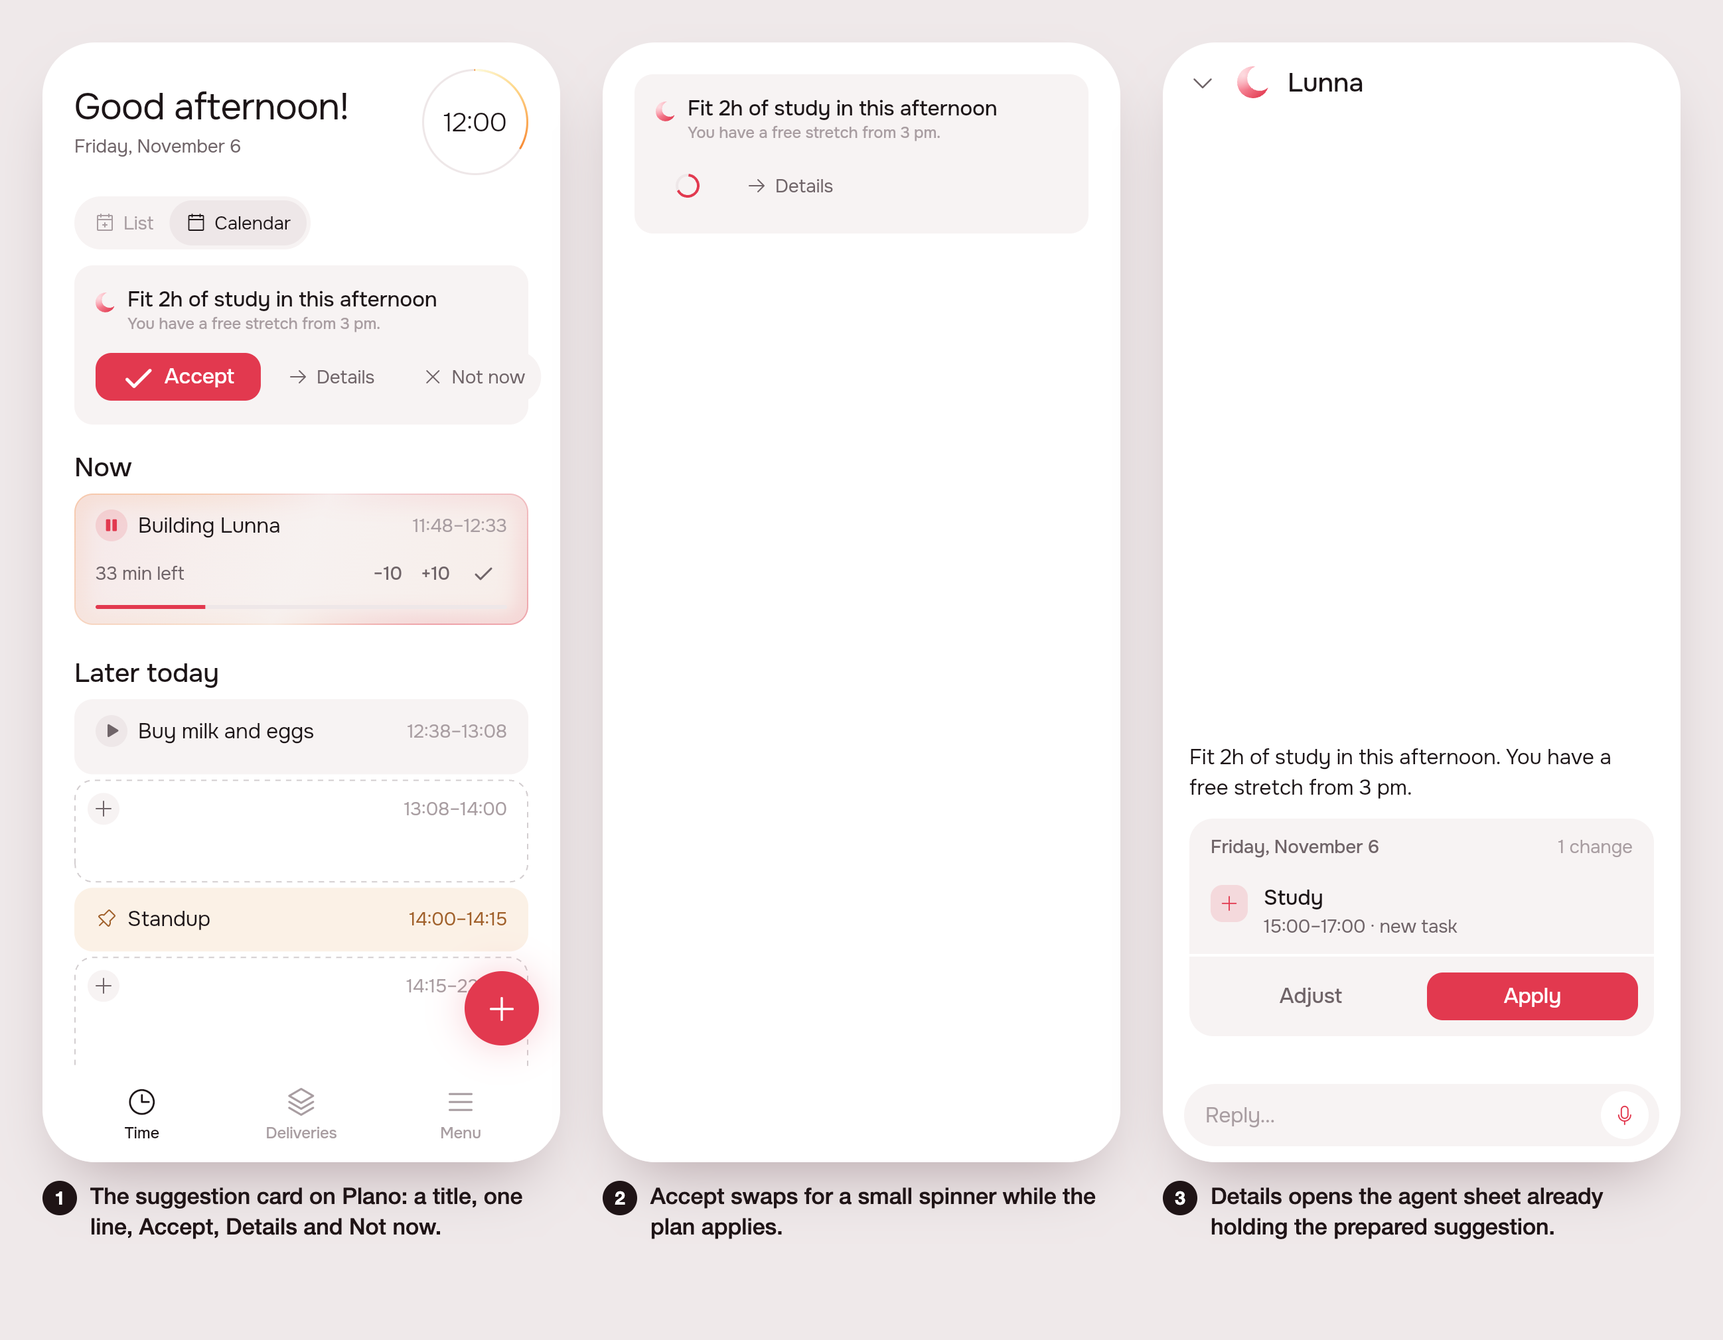
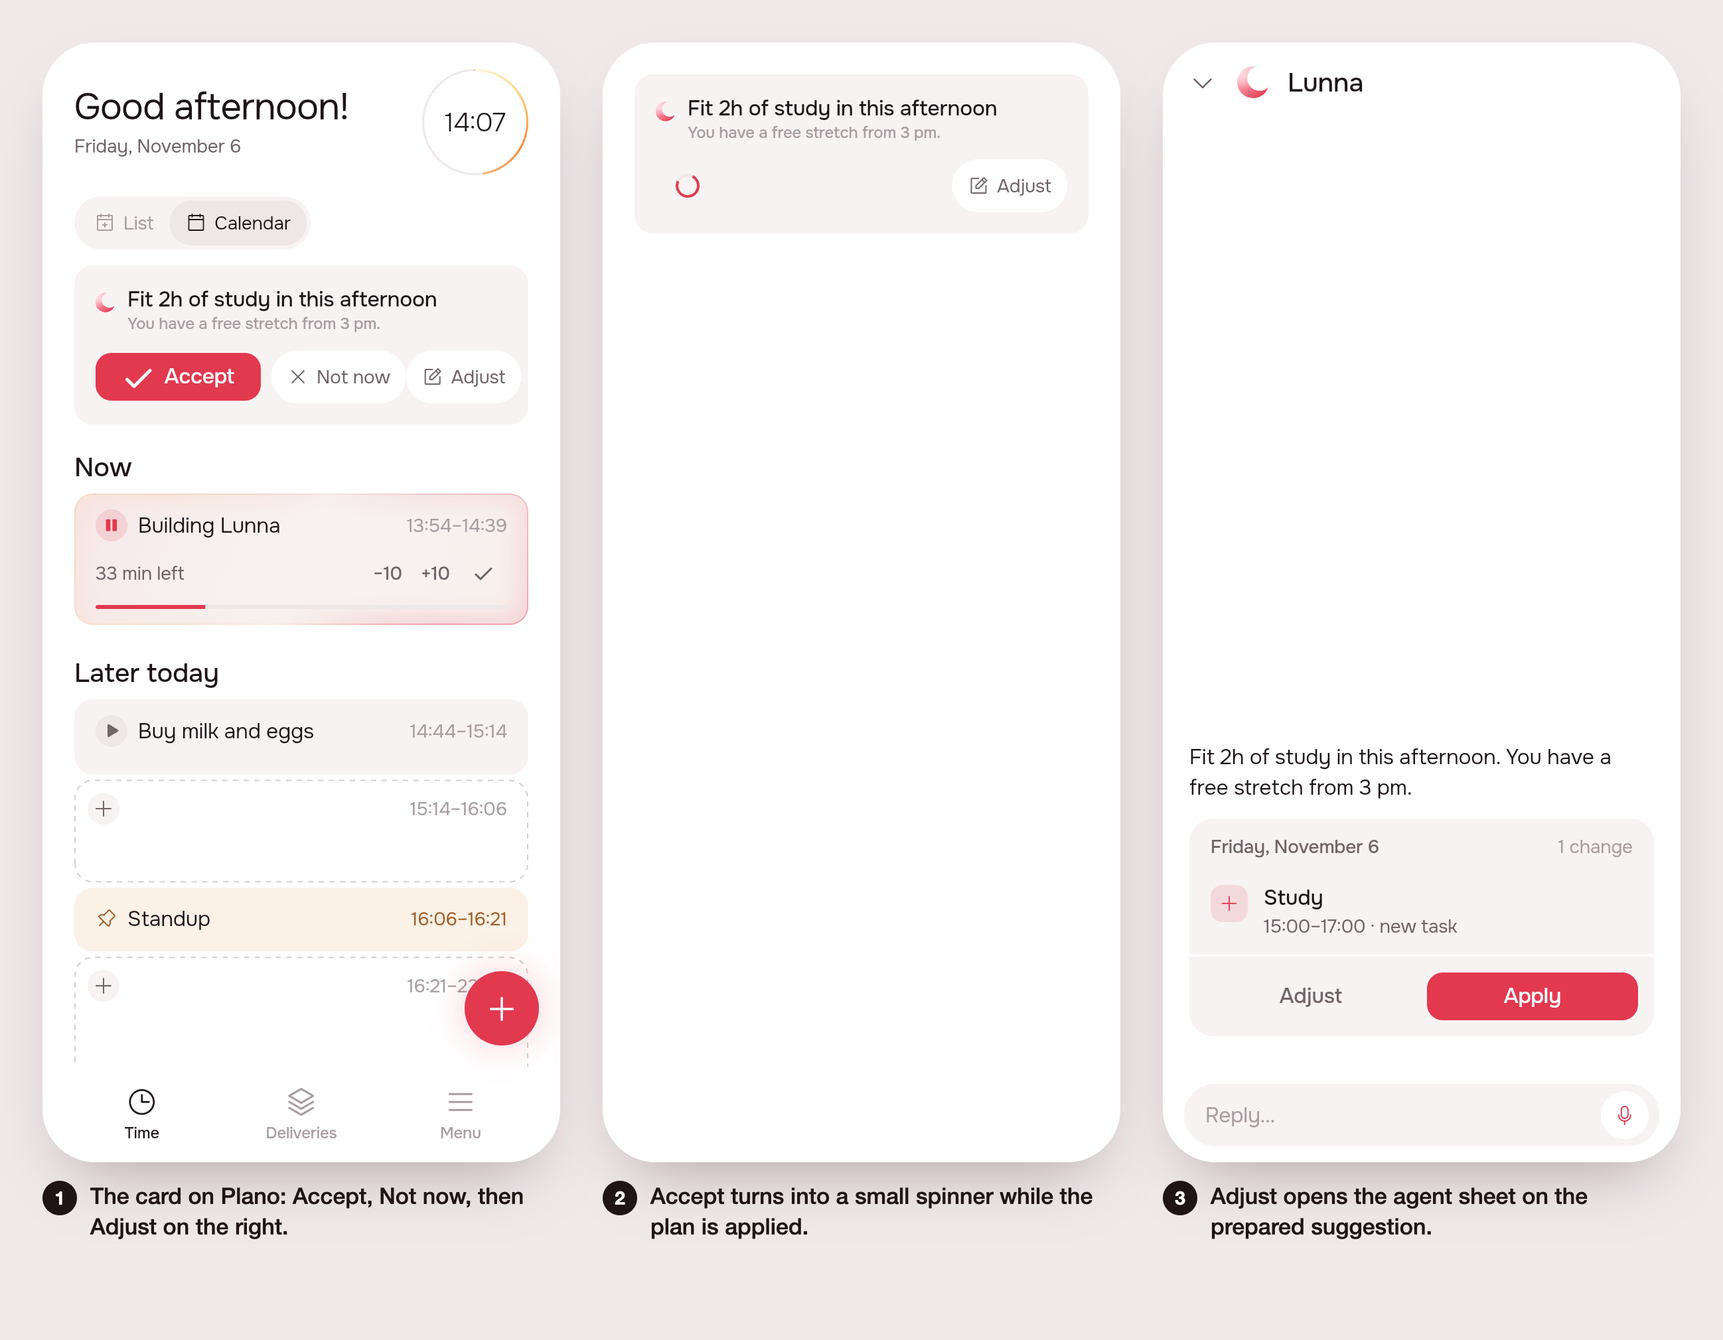
create(#120): fix · Re-enable agentic suggestions

diff --git a/app/packages/agent/lib/src/view/suggestion_card.dart b/app/packages/agent/lib/src/view/suggestion_card.dart
@@ -16,11 +16,12 @@ import 'package:l10n/l10n.dart';
 /// - **Aceitar** applies the plan, with a spinner in its place while the
 ///   changes are made; the card goes when it is done.
 /// - **Agora não** puts the suggestion away until the next one is due.
-/// - **Detalhes** opens the conversation on the suggestion's prepared
+/// - **Ajustar** opens the conversation on the suggestion's prepared
 ///   surface (preview, plan, choices), where the person can talk, change
 ///   it or accept it.
 ///
-/// A suggestion with no plan (a question, the welcome) has Detalhes only.
+/// A suggestion with no plan (a question, the welcome) has Agora não and
+/// Ajustar only.
 /// {@endtemplate}
 class SuggestionCard extends StatelessWidget {
   /// {@macro suggestion_card}
@@ -159,26 +160,23 @@ class _OfferState extends State<_Offer> {
                           onPressed: () => unawaited(_accept()),
                         ),
                 if (_plan != null) const SizedBox(width: AppSpacing.s2),
+                if (!_accepting)
+                  AppPillButton(
+                    label: l10n.agentSuggestionDismiss,
+                    iconData: AppIcons.close,
+                    fill: AppColors.surface,
+                    onPressed: () =>
+                        unawaited(context.read<SuggestionCubit>().dismiss()),
+                  ),
+                const Spacer(),
                 AppPillButton(
-                  label: l10n.agentSuggestionDetails,
-                  iconData: AppIcons.arrowRight,
+                  label: l10n.agentSuggestionAdjust,
+                  iconData: AppIcons.note,
+                  fill: AppColors.surface,
                   onPressed: () => unawaited(
                     showAgentSheet(context, suggestion: suggestion),
                   ),
                 ),
-                const Spacer(),
-                if (!_accepting)
-                  // The pill's own padding is moved out so its label ends on
-                  // the card's inner edge, like the text above it.
-                  Transform.translate(
-                    offset: const Offset(AppSpacing.s3, 0),
-                    child: AppPillButton(
-                      label: l10n.agentSuggestionDismiss,
-                      iconData: AppIcons.close,
-                      onPressed: () =>
-                          unawaited(context.read<SuggestionCubit>().dismiss()),
-                    ),
-                  ),
               ],
             ),
           ],

diff --git a/app/packages/agent/test/voice_test.dart b/app/packages/agent/test/voice_test.dart
@@ -804,8 +804,8 @@ void _suggestionCardTests() {
       await tester.pump();
     }
 
-    testWidgets('the welcome is its question, with Detalhes and Agora não '
-        'and nothing to accept; Detalhes opens the conversation', (
+    testWidgets('the welcome is its question, with Ajustar and Agora não '
+        'and nothing to accept; Ajustar opens the conversation', (
       tester,
     ) async {
       await pumpCard(
@@ -823,13 +823,13 @@ void _suggestionCardTests() {
       expect(find.text('Aceitar'), findsNothing);
       expect(find.textContaining('/7'), findsNothing);
 
-      await tester.tap(find.text('Detalhes'));
+      await tester.tap(find.text('Ajustar'));
       await tester.pumpAndSettle();
       expect(find.byType(AgentSheet), findsOneWidget);
     });
 
     testWidgets('a turn with a plan is a title, a line and Aceitar; '
-        'Detalhes opens the prepared surface, plan and all', (tester) async {
+        'Ajustar opens the prepared surface, plan and all', (tester) async {
       await pumpCard(
         tester,
         AgentSuggestion(
@@ -862,10 +862,10 @@ void _suggestionCardTests() {
       expect(find.text(r'Faltam R$ 2.400'), findsOneWidget);
       expect(find.text('Encaixo hoje às 14:00?'), findsOneWidget);
       expect(find.text('Aceitar'), findsOneWidget);
-      // The card is small: the preview waits in Detalhes.
+      // The card is small: the preview waits in Ajustar.
       expect(find.text('Aplicar anota a entrega.'), findsNothing);
 
-      await tester.tap(find.text('Detalhes'));
+      await tester.tap(find.text('Ajustar'));
       await tester.pumpAndSettle();
       expect(find.byType(AgentSheet), findsOneWidget);
       expect(find.textContaining('Mapa da Ana'), findsWidgets);

diff --git a/app/packages/agent/test/suggestion_card_test.dart b/app/packages/agent/test/suggestion_card_test.dart
@@ -55,8 +55,22 @@ void main() {
       expect(find.text('Encaixe a revisão hoje'), findsOneWidget);
       expect(find.text('Sobram 2 horas antes do almoço.'), findsOneWidget);
       expect(find.text('Aceitar'), findsOneWidget);
-      expect(find.text('Detalhes'), findsOneWidget);
+      expect(find.text('Ajustar'), findsOneWidget);
       expect(find.text('Agora não'), findsOneWidget);
+    });
+
+    testWidgets('the three actions are in order Aceitar, Agora não, Ajustar', (
+      tester,
+    ) async {
+      final cubit = await loaded(_suggestion(action: _action));
+
+      await tester.pumpWidget(_app(const SuggestionCard(), cubit));
+
+      final aceitar = tester.getTopLeft(find.text('Aceitar')).dx;
+      final agoraNao = tester.getTopLeft(find.text('Agora não')).dx;
+      final ajustar = tester.getTopLeft(find.text('Ajustar')).dx;
+      expect(aceitar, lessThan(agoraNao));
+      expect(agoraNao, lessThan(ajustar));
     });
 
     testWidgets('accepting draws the spinner in Aceitar’s place', (
@@ -84,14 +98,14 @@ void main() {
       expect(cubit.state, isNull);
     });
 
-    testWidgets('no plan: Detalhes and Agora não, but no Aceitar', (
+    testWidgets('no plan: Ajustar and Agora não, but no Aceitar', (
       tester,
     ) async {
       final cubit = await loaded(_suggestion(text: 'Quer encaixar?'));
 
       await tester.pumpWidget(_app(const SuggestionCard(), cubit));
 
-      expect(find.text('Detalhes'), findsOneWidget);
+      expect(find.text('Ajustar'), findsOneWidget);
       expect(find.text('Agora não'), findsOneWidget);
       expect(find.text('Aceitar'), findsNothing);
     });

diff --git a/app/packages/app_ui/lib/src/widgets/app_segmented.dart b/app/packages/app_ui/lib/src/widgets/app_segmented.dart
@@ -130,8 +130,12 @@ class AppPillButton extends StatelessWidget {
     required this.label,
     required this.onPressed,
     this.iconData,
+    this.fill = AppColors.fill,
     super.key,
   });
+
+  /// Its background; [AppColors.surface] on a card that is already a fill.
+  final Color fill;
 
   /// What it currently says.
   final String label;
@@ -155,7 +159,7 @@ class AppPillButton extends StatelessWidget {
             vertical: AppSpacing.s3 - 1,
           ),
           decoration: BoxDecoration(
-            color: AppColors.fill,
+            color: fill,
             borderRadius: BorderRadius.circular(AppSpacing.pillRadius),
           ),
           child: Row(

diff --git a/app/packages/l10n/lib/src/gen/app_localizations.dart b/app/packages/l10n/lib/src/gen/app_localizations.dart
@@ -1585,11 +1585,11 @@ abstract class AppLocalizations {
   /// **'Aceitar'**
   String get agentSuggestionAccept;
 
-  /// No description provided for @agentSuggestionDetails.
+  /// No description provided for @agentSuggestionAdjust.
   ///
   /// In pt, this message translates to:
-  /// **'Detalhes'**
-  String get agentSuggestionDetails;
+  /// **'Ajustar'**
+  String get agentSuggestionAdjust;
 
   /// No description provided for @agentWelcome.
   ///

diff --git a/app/packages/l10n/lib/src/gen/app_localizations_pt.dart b/app/packages/l10n/lib/src/gen/app_localizations_pt.dart
@@ -874,7 +874,7 @@ class AppLocalizationsPt extends AppLocalizations {
   String get agentSuggestionAccept => 'Aceitar';
 
   @override
-  String get agentSuggestionDetails => 'Detalhes';
+  String get agentSuggestionAdjust => 'Ajustar';
 
   @override
   String get agentWelcome => 'Oi! Eu sou a Lunna. Vou te ajudar a montar o seu mês, um passo de cada vez, começando pelo objetivo.';

diff --git a/app/packages/l10n/lib/src/gen/app_localizations_en.dart b/app/packages/l10n/lib/src/gen/app_localizations_en.dart
@@ -874,7 +874,7 @@ class AppLocalizationsEn extends AppLocalizations {
   String get agentSuggestionAccept => 'Accept';
 
   @override
-  String get agentSuggestionDetails => 'Details';
+  String get agentSuggestionAdjust => 'Adjust';
 
   @override
   String get agentWelcome => 'Hi! I\'m Lunna. I\'ll help you plan your month, one step at a time, starting with the goal.';

diff --git a/product/delivery/2026-11-06-agentic-suggestions/README.md b/product/delivery/2026-11-06-agentic-suggestions/README.md
@@ -28,6 +28,10 @@ Review reply (revision 3):
 
 > spacing is a bit bad on the right button. after that, approve
 
+Review reply (revision 4):
+
+> adjust the alignment of the right button, the padding should be symmetric, also the order should be accept, not now, adjust (instead of details)
+
 The plan (by /create, ~2.5 % of the week):
 
 - Turn the suggestion back on in Plano (`kSuggestionOnPlan = true`).
@@ -45,21 +49,21 @@ Not doing: no change to how the model picks the content; no animation polish bey
 
 ![The strip](img/mockup-steps.png)
 
-1. The card sits at the top of Plano, two lines of text and three actions: **Aceitar** (filled accent button, check icon: the highlight), **Detalhes** (arrow icon), **Agora não** (x icon). The card is gray (`AppColors.fill`, not the pink wash). Its inner padding is `AppSpacing.s4`, so its text and mark line up with the Now card's. **Agora não** is shifted out by its own pill padding (`AppSpacing.s3`), so its label ends on the card's inner edge, like the text above it (revision 3).
+1. The card sits at the top of Plano, two lines of text and three actions, in this order (revision 4): **Aceitar** (filled accent button, check icon: the highlight), **Agora não** (x icon), and **Ajustar** (note icon) at the right. The card is gray (`AppColors.fill`, not the pink wash). Its inner padding is `AppSpacing.s4`, so its text and mark line up with the Now card's. Agora não and Ajustar are white pills, so their edges show on the gray card: Aceitar starts and Ajustar ends on the card's inner padding, symmetric (revision 4; replaces revision 3's shifted pill).
 2. Aceitar swaps for a small spinner while the plan applies; the card goes when it is done (on failure the button returns and a snackbar says why).
-3. Detalhes opens the agent sheet already holding the prepared surface (preview, plan, Adjust/Apply), no new turn.
+3. Ajustar opens the agent sheet already holding the prepared surface (preview, plan, Adjust/Apply), no new turn.
 
 Decisions the screens don't show:
 
 - Title = the first sentence of the suggestion's `text`; description = the rest, one line, ellipsis. No new field, so the model's content is untouched.
-- A suggestion with no plan (a question, the welcome) shows Detalhes (and Agora não) only.
+- A suggestion with no plan (a question, the welcome) shows Agora não and Ajustar only.
 - Deny reuses `SuggestionCubit.dismiss()`.
 
 ## 3. What was built
 
 ![The build](img/build.png)
 
-The prints show the card on Plano, Aceitar's spinner, and Detalhes opening the agent sheet with the prepared suggestion.
+The prints show the card on Plano (Aceitar, Agora não, Ajustar), Aceitar's spinner, and Ajustar opening the agent sheet with the prepared suggestion.
 
 The rule: a suggestion comes at most every 4 h inside working hours, and the first of the day at its start. The model may ask for sooner (1 h); `nextAtOf` still moves the hour into the work day (`intoWorkDay`).
 
@@ -72,16 +76,17 @@ Server (`server/src/agent/`), no new routes, tables, env vars or analytics rows:
 App:
 
 - `app/lib/plan/view/home_page.dart`: `kSuggestionOnPlan = true`.
-- `app/packages/agent/lib/src/view/suggestion_card.dart`: the compact gray card. Aceitar (filled accent `AppButton.icon`, check), Detalhes (arrow), Agora não (close). The stateful `_Offer` holds the accepting flag; `SuggestionCard(accepting:)` is for tests.
-- Strings `agentSuggestionAccept` and `agentSuggestionDetails` in `app_pt.arb` / `app_en.arb`. The mockup's preview-only strings and `app/lib/suggestion_preview.dart` were removed after the prints.
+- `app/packages/agent/lib/src/view/suggestion_card.dart`: the compact gray card. Aceitar (filled accent `AppButton.icon`, check), Agora não (close), a spacer, Ajustar (note). Agora não and Ajustar are `AppPillButton(fill: AppColors.surface)`; no `Transform` shift, so the row's padding is the card's `s4` on both sides. The stateful `_Offer` holds the accepting flag; `SuggestionCard(accepting:)` is for tests.
+- `app_ui`'s `AppPillButton` takes an optional `fill` (default `AppColors.fill`, so every other pill is unchanged).
+- Strings `agentSuggestionAccept` and `agentSuggestionAdjust` (Ajustar / Adjust; was `agentSuggestionDetails`) in `app_pt.arb` / `app_en.arb`. The mockup's preview-only strings and `app/lib/suggestion_preview.dart` were removed after the prints.
 
 Tests:
 
 - Server `npm test -- src/agent`: 10 suites, 102 tests pass. `work-quality.spec.ts` covers the clamp 1 to 4, default 4, and a new `nextAtOf` default case; `agent.controller.spec.ts` expectations moved from a day/5 h to 4 h.
-- App: new `app/packages/agent/test/suggestion_card_test.dart` (6 tests: title, description and three actions; spinner when accepting; Agora não dismisses; no Aceitar without a plan; `suggestionWords`). The two old card tests in `test/voice_test.dart` were rewritten (32 pass).
-- `.tool/check`: all 12 steps green.
+- App: new `app/packages/agent/test/suggestion_card_test.dart` (7 tests: title, description and three actions; their order Aceitar, Agora não, Ajustar; spinner when accepting; Agora não dismisses; no Aceitar without a plan; `suggestionWords`). The two old card tests in `test/voice_test.dart` were rewritten (32 pass).
+- `.tool/check`: all steps green (after revision 4: app-analyze and the 8 app package suites).
 
-Differs from the mockup or plan: nothing visible. The code writing went to opencode (`.tool/oc`); it missed the tool schema's 3 to 24 limits, the `schema.ts` comment and the controller spec's expectations. These were fixed in review.
+Differs from the mockup or plan: nothing visible. The code writing went to opencode (`.tool/oc`); it missed the tool schema's 3 to 24 limits, the `schema.ts` comment and the controller spec's expectations. These were fixed in review. Revision 4 went to opencode too (`ok`): the reorder, the rename and the tests; the white pill fill was added in review after the first print showed the gray pill could not be seen.
 
 Decided unattended:
 
@@ -90,6 +95,9 @@ Decided unattended:
 - Follow-up range 1 to 4 h with a 4 h default.
 - Preview-only strings removed with the preview entry point.
 - The old `voice_test` card tests rewritten, not deleted.
+- Revision 4, "symmetric": the two pills became white (`AppColors.surface`) on the gray card, so their boxes are seen and Ajustar's right edge mirrors Aceitar's left edge at `s4`. On the gray card a gray pill was invisible, so its label sat 12 px further in than Aceitar's box.
+- Revision 4, Ajustar's icon is the note pencil (`AppIcons.note`); the label is a new key `agentSuggestionAdjust`, not the agent sheet's `agentAdjust`, so the two can change apart.
+- Revision 4, while Aceitar spins, Agora não is hidden and Ajustar stays at the right.
 
 Next:
 

diff --git a/product/spec/home.md b/product/spec/home.md
@@ -33,7 +33,7 @@ cards on screen. From the top:
 
 | Section | What it shows | Chosen by | Empty |
 |---------|---------------|-----------|-------|
-| Offer | `SuggestionCard`, the agent's one offer (#120): a small gray card, a title and one line, **Aceitar** (applies the plan, a spinner meanwhile), **Detalhes** (the agent sheet on the prepared surface), **Agora não** (dismissed; the next comes within 4 h of the working day). See [agent.md](./agent.md) | `GET /agent/suggestion` | not drawn |
+| Offer | `SuggestionCard`, the agent's one offer (#120): a small gray card, a title and one line, **Aceitar** (applies the plan, a spinner meanwhile), **Agora não** (dismissed; the next comes within 4 h of the working day), **Ajustar** (the agent sheet on the prepared surface). See [agent.md](./agent.md) | `GET /agent/suggestion` | not drawn |
 | Agora | heading with today's mark (`TodayTag`: "Dia 2 · dia leve", or the day's own tag); the running task as `NowTaskCard`: titled by its delivery, the task under it, pause, −10 +10 ✓, the 3 px bar. A fixed block, a task waiting to be begun and one in overtime keep `EventTile` | the card in section `agora` | the break (`AgoraIdleTile`) |
 | Em seguida | a heading with **Ver calendário** beside it (`AppPillButton`, the calendar icon, pushes `DayPage`), and a queue with **no limit**: every card of the first day after Agora that has any (today, while it has some left), **its events too**, in clock order, then every task the queue puts on the days after it, under the day's name (*Amanhã*, *Sexta-feira, 30 de outubro*; `_DayOf`). Each row is its start and end as the server's layout gives them, re-read every minute and after every write, so a pause, a move or a task done early moves them all and an event never moves. A task is a `TaskCard` with play; an event is drawn as the calendar draws it (`fixedFill`, the pin in the play's room, its hours in `fixedInk`; a routine's day `routineFill` and the repeat), not carried. Later days' events stay on the calendar. Then **+ Adicionar** (`AppAddRow(dense: true)`), which writes a task right after the last task drawn (`queueEndOf`) | `PlanItems.next` | "Nada marcado daqui para a frente.", kept while a card is carried |
 | Pendentes | every delivery begun and not delivered (`PendingCard`): its next task under the name, the day it is due in the corner (`dueLabel`: *hoje*, the weekday this week, *12/nov* beyond, *para ontem* once past), "1h30 de 6h15" (*Urgente ·* before it once past its day), −1d +1d ✓, the pace bar at 3 px; then the loose tasks paused off the day (`PendingTaskCard`: "Falta 40 min", −10 +10 ✓) | `PlanItems.pending`: `progressGroups(...).started` (the delivery whose piece runs on Agora stays, its piece drawn as a yellow run, `doing`, right after the green; `paceDoing`), then the backlog's cards with `pending`. The bar is always a pace bar: with no day it is the green alone | not drawn, unless a card is being carried |

diff --git a/product/spec/agent.md b/product/spec/agent.md
@@ -347,12 +347,15 @@ rotina e o novo horário do dia."); the plan under it is
 **The card is small and gray** (`AppColors.fill`, inner padding `s4`, aligned
 with the Now card). Its title is the first sentence of `text`; the rest is
 the description, on one line with an ellipsis (`suggestionWords`). Three
-actions: **Aceitar** (filled accent, check icon; only when the suggestion
-has a plan) runs `applyAgentPlan` with a small spinner in its place, then
-`SuggestionCubit.clear()` removes the card (on failure the button returns
-and a snackbar says why); **Detalhes** opens `showAgentSheet(suggestion:)`
-on the prepared opening, no new turn; **Agora não** calls
-`SuggestionCubit.dismiss()`. The welcome (no plan) has only the last two.
+actions, in this order: **Aceitar** (filled accent, check icon; only when
+the suggestion has a plan) runs `applyAgentPlan` with a small spinner in its
+place, then `SuggestionCubit.clear()` removes the card (on failure the
+button returns and a snackbar says why); **Agora não** (white pill, x icon)
+calls `SuggestionCubit.dismiss()`; **Ajustar** (white pill, note icon, at
+the card's right edge) opens `showAgentSheet(suggestion:)` on the prepared
+opening, no new turn. Aceitar starts and Ajustar ends on the card's inner
+padding, so the row is symmetric. The welcome (no plan) has only the last
+two.
 
 **When the next one comes: `nextAt`.** The answer tool's `followUp`
 (hours) is held to 1–4, 4 when absent (`FOLLOW_UP_RANGE`,
